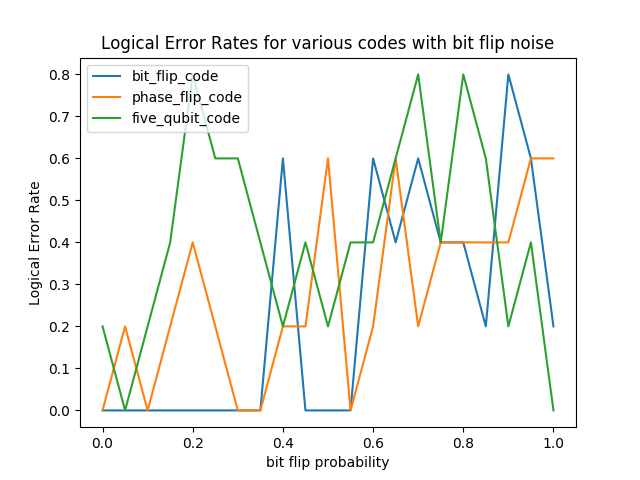
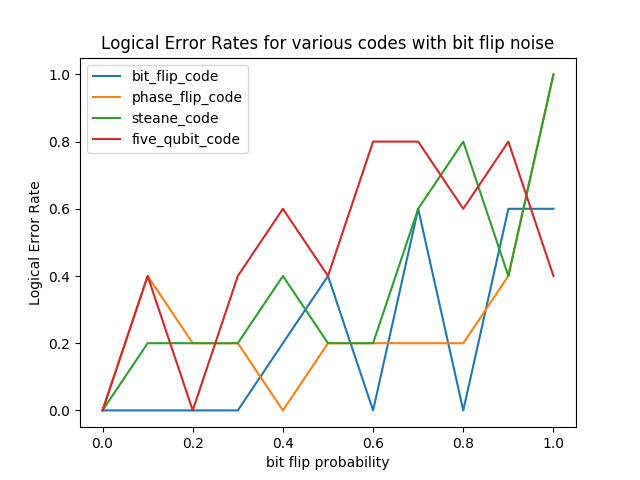
XZ!=Y

diff --git a/logical_vs_physical_error_rates.py b/logical_vs_physical_error_rates.py
@@ -39,7 +39,8 @@ def GiveLogicalErrRate(code_name,noise_model_kraus,num_trials_tot,code):
 			#bit = np.random.randint(2)
 			#if bit==1:
 			#	initial_state_prep += X(qubit_id)
-		
+			#	inverse_initial_state_prep += X(qubit_id)
+
 		# Don't use I gate anywher else in program
 		error_prog = Program()
 		for qubit_id in range(code.n):
@@ -59,17 +60,17 @@ def GiveLogicalErrRate(code_name,noise_model_kraus,num_trials_tot,code):
 	return logical_err_rate
 
 #code_name_list = ["bit_flip_code","phase_flip_code","steane_code","five_qubit_code", "shor_code"]
-#code_name_list = ["bit_flip_code","phase_flip_code","steane_code","five_qubit_code"]
-code_name_list = ["steane_code"]
+code_name_list = ["bit_flip_code","phase_flip_code","steane_code","five_qubit_code"]
+#code_name_list = ["steane_code"]
 noise_model_list = [["amplitude damping",noise_models_kraus.damping_kraus_map],
 ["dephasing",noise_models_kraus.dephasing_kraus_map],
 ["bit flip",noise_models_kraus.bit_flip_channel],
 ["phase flip",noise_models_kraus.phase_flip_channel],
 ["depolarizing",noise_models_kraus.depolarizing_channel]]
 
-noise_model_list = [["depolarizing",noise_models_kraus.depolarizing_channel]]
+#noise_model_list = [["depolarizing",noise_models_kraus.depolarizing_channel]]
 
-num_trials_tot = 400
+num_trials_tot = 500
 
 for j in range(len(noise_model_list)):
 	fig = plt.figure()

diff --git a/stabilizer_code.py b/stabilizer_code.py
@@ -16,8 +16,11 @@ def pauli2controlledpauli(pauli,i,j):
         elif pauli=='Z':
             p += Program('CZ '+str(i)+' '+str(j))
         else:
-            p += Program('CNOT '+str(i)+' '+str(j))
             p += Program('CZ '+str(i)+' '+str(j))
+            p += Program('CNOT '+str(i)+' '+str(j))
+            p += Program('CPHASE10 ('+str(np.pi/2)+') '+str(i)+' '+str(j))
+            p += Program('CPHASE ('+str(np.pi/2)+') '+str(i)+' '+str(j))
+            
     return p
 
 class StabilizerCode:
